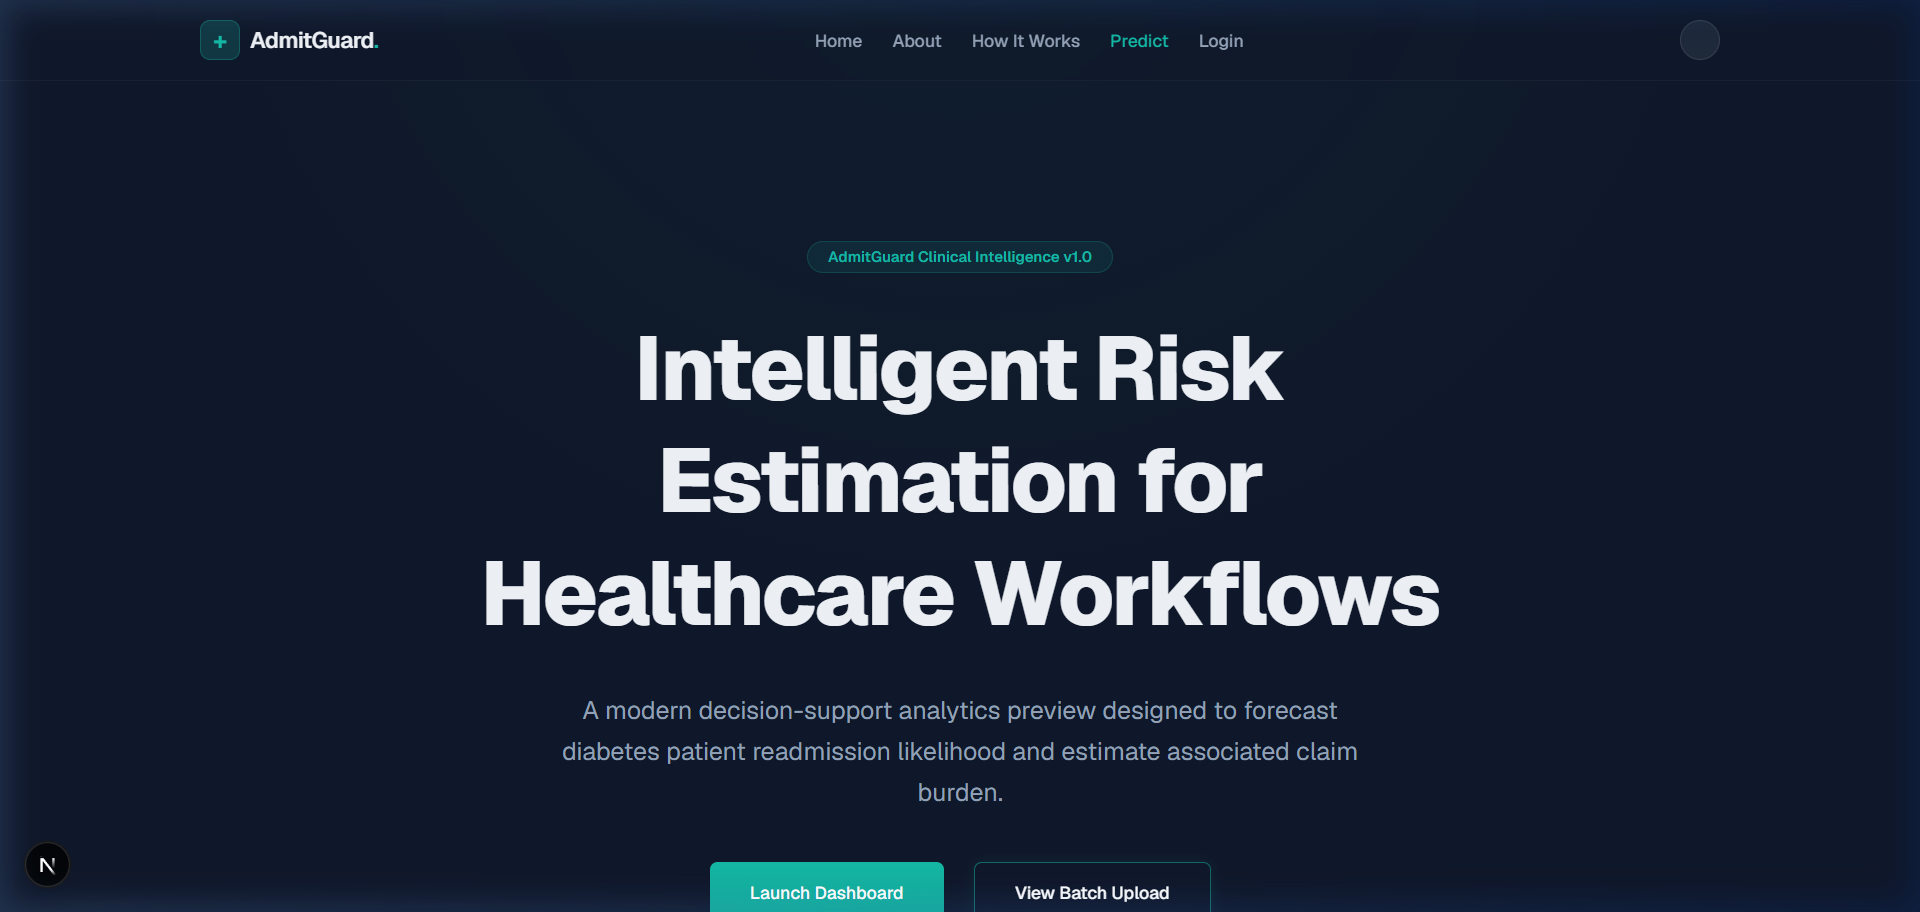
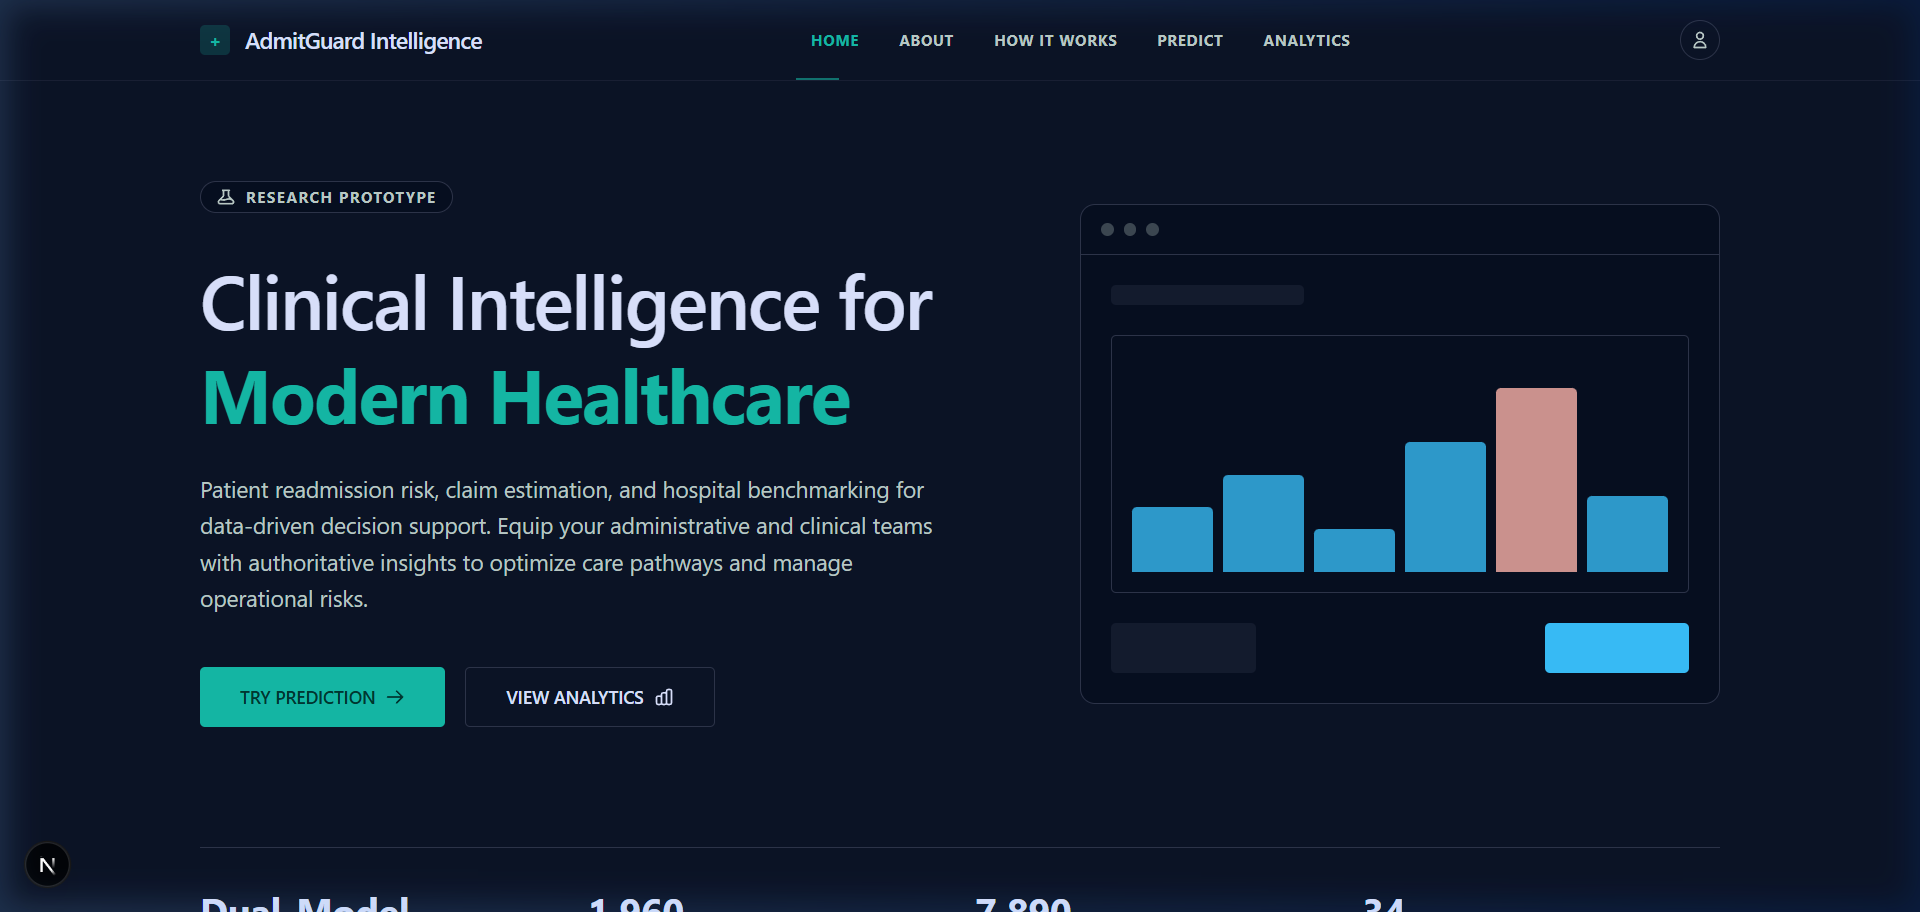
docs: refresh README and finalize AdmitGuard UI polish

diff --git a/frontend/src/components/layout/AppShell.tsx b/frontend/src/components/layout/AppShell.tsx
@@ -82,10 +82,6 @@ export function AppShell({ children }: { children: React.ReactNode }) {
           </nav>
 
           <div className="flex items-center gap-4">
-            <div className="hidden md:flex h-8 w-8 rounded-full border border-border items-center justify-center text-muted-foreground">
-              <svg className="w-4 h-4" fill="none" stroke="currentColor" viewBox="0 0 24 24"><path strokeLinecap="round" strokeLinejoin="round" strokeWidth={2} d="M16 7a4 4 0 11-8 0 4 4 0 018 0zM12 14a7 7 0 00-7 7h14a7 7 0 00-7-7z" /></svg>
-            </div>
-            
             {/* Mobile Menu Toggle */}
             <button
               onClick={() => setIsMobileMenuOpen(!isMobileMenuOpen)}

diff --git a/README.md b/README.md
@@ -1,133 +1,142 @@
 # AdmitGuard Intelligence
 
-> A clinical decision-support and analytics prototype providing patient readmission risk estimation and estimated insurance claim analytics.
+> A premium clinical decision-support and analytics platform providing patient readmission risk estimation, claim billing bounds estimation, and interactive hospital benchmarking.
 
-### 🌐 [Live Demo (admitguard.site)](https://admitguard.site)
-*Note: The backend is hosted on a free Render instance and may take 30-60 seconds to wake up on the first request.*
-
-## 📌 Problem Statement
-Hospital readmissions are a critical quality metric and financial liability for healthcare organizations. Accurately identifying high-risk patients prior to discharge allows clinical teams to intervene with targeted care plans, reducing the likelihood of avoidable readmissions. Simultaneously, understanding estimated insurance claim amounts helps financial planning and resource allocation. AdmitGuard serves as a foundational prototype to bridge clinical operational data with machine learning, enabling proactive risk management.
-
-## ✨ Key Features
-- **Readmission Risk Estimation**: Predicts 30-day readmission probability using 32 pre-outcome clinical features (leak-safe).
-- **Claim Analytics**: Estimates financial claim amounts based on 12 patient demographic and history features.
-- **Hospital Benchmarking**: Aggregate performance analytics for ~2,000 hospitals using the CMS HRRP dataset.
-- **Unified Dashboard**: A polished, responsive web interface built with modern glassmorphism UI for clear presentation.
-- **Robust Architecture**: Modular FastAPI backend supporting dual-model concurrent inference, strictly decoupled from the Next.js frontend.
-- **Safe ML Pipeline**: Fully reproducible `scikit-learn` pipeline with rigorous anti-leakage guards (ensuring post-outcome variables do not corrupt training).
-
-## 🛠 Tech Stack
-- **Frontend**: Next.js 16 (App Router), React, Tailwind CSS, TypeScript
-- **Backend**: FastAPI, Python 3.12, Pydantic, SQLAlchemy 2.0
-- **Machine Learning**: Scikit-Learn, Pandas, NumPy, Joblib
-
-## 🏗 Architecture Overview
-AdmitGuard operates on a segregated Client-Server architecture:
-1. **Next.js Client**: Provides the recruiter-ready UI. Requests are routed via `src/lib/api.ts` concurrently using `Promise.allSettled`.
-2. **FastAPI Microservice**: Handles inference via two distinct routes: `/api/v1/readmission/predict` and `/api/v1/claim/predict`.
-3. **ML Pipeline**: A local `ml/` environment that processes the raw dataset, maps variables, scales features, and exports `.joblib` binary artifacts consumed by the FastAPI service.
-
-*(See [Architecture Docs](docs/architecture/README.md) for more details)*
-
-## 🧠 ML Models Used
-The system trains on two separate, task-specific datasets to avoid feature leakage and ensure data integrity. The previous fused dataset (`final_adjusted_healthcare_dataset.xlsx`) is invalid and must **not** be used or recreated.
-
-### Readmission Risk Model (Classification)
-- **Dataset**: `diabetic_data.csv` (101,766 rows)
-- **Algorithm**: Logistic Regression (with class weight balancing)
-- **Metrics** (Realistic due to leakage removal): 
-  - Accuracy: 0.648
-  - Recall: 0.538
-  - Macro-F1: 0.514
-  - ROC-AUC: 0.637
-
-### Claim Prediction Model (Regression)
-- **Dataset**: `healthinsurance_claims.csv` (13,904 deduplicated rows)
-- **Algorithm**: Random Forest Regressor
-- **Metrics** (Strong but dataset-specific): 
-  - MAE: 558.89
-  - RMSE: 2047.77
-  - R2: 0.972
-  - MAPE: 6.31%
-
-### Hospital Analytics (Benchmarking)
-- **Dataset**: `hrrp_readmissions.csv` (7,890 records)
-- **Scope**: 1,960 unique hospitals across 34 US states.
-- **Primary Metric**: Excess Readmission Ratio (ERR).
-- **Nature**: Static historical aggregate data (Jul 2019 – Jun 2022). This is **not** an ML model output but a display of CMS-calculated statistics.
-
-## ⚠ Important Notes
-- **Dataset Note**: The project uses separate, task-specific datasets. The raw datasets are locally stored in `data/raw/` and explicitly ignored by Git.
-- **Artifact Note**: Large binary `.joblib` model artifacts are also ignored by `.gitignore`. They must be generated locally using the training scripts before running the backend locally.
-- **Disclaimer**: This platform is a *prototype/decision-support tool*. It is **not** HIPAA compliant, does **not** have clinical approval, and does **not** provide medical or financial advice.
-
-## 🌐 Live Deployment
-AdmitGuard is live and accessible for demonstration:
-- **Frontend**: [admitguard.site](https://admitguard.site) (Deployed on Vercel via Namecheap)
-- **Backend API**: [admitguard-api.onrender.com](https://admitguard-api.onrender.com) (Deployed on Render)
-- **API Documentation**: [Interactive Swagger UI](https://admitguard-api.onrender.com/docs)
-- **Analytics Data**: [Public JSON Summary](https://admitguard-api.onrender.com/api/v1/analytics/summary)
-
-*Note: As this uses Render's free tier, the backend may "spin down" after inactivity. If the app appears slow initially, please allow up to 60 seconds for the service to wake up.*
-
-## 🚀 Local Setup Instructions
-
-### 1. Training the Models (Required First)
-Because artifacts are not committed, you must build the models locally.
-1. Place the datasets (`diabetic_data.csv` and `healthinsurance_claims.csv`) into `data/raw/readmission/` and `data/raw/claims/` respectively.
-2. Open a terminal at the project root and activate the environment:
-   ```bash
-   .venv\Scripts\activate
-   ```
-3. Run the training scripts:
-   ```bash
-   python ml/src/train_readmission.py
-   python ml/src/train_claim.py
-   ```
-   *(This generates the `.joblib` files inside `ml/artifacts/` or `ml/models/`)*
-
-### 2. Running the Backend
-1. Ensure the virtual environment is activated.
-2. From the project root, start FastAPI:
-   ```bash
-   cd backend
-   uvicorn app.main:app --reload --port 8000
-   ```
-
-### 3. Running the Frontend
-1. Open a new terminal at the project root.
-2. Install dependencies (if not done) and start Next.js:
-   ```bash
-   cd frontend
-   pnpm install
-   pnpm dev
-   ```
-3. Navigate to `http://localhost:3000` to view the dashboard.
-
-## 📡 API Endpoint Summary
-- `GET /api/v1/health/` - Backend health check
-- `GET /api/v1/analytics/summary` - Returns aggregate HRRP hospital benchmarking data.
-- `POST /api/v1/readmission/predict` - Accepts ReadmissionRequest (32 features) and returns risk probability/label.
-- `POST /api/v1/claim/predict` - Accepts ClaimRequest (12 features) and returns estimated USD claim amount.
-
-*(See [API Docs](docs/api/README.md) for payload definitions)*
-
-## 🔮 Limitations & Future Improvements
-- **Limitations**: The models currently assume structured tabular data and are trained on static datasets. The models are dataset-specific.
-- **Improvements**: Integration with live FHIR/HL7 streams, Dockerization for cloud deployment, and implementing user authentication/RBAC for secure provider access.
-
-## 📋 Next Steps
-1. Final project hand-off and portfolio polish.
-2. Optional SHAP/Explainability integration for prediction drivers.
-3. Dashboard filtering by condition or state.
+### 🌐 [Live Demo (admitguard.site)](https://admitguard.site) | 📡 [Interactive Swagger API Docs](https://admitguard-api.onrender.com/docs)
+*Note: The backend is hosted on Render's free tier and may take 30–60 seconds to spin up on the first request.*
 
 ---
 
-## 📸 Screenshots
+## 📌 Problem Statement
+Hospital readmissions are a critical quality metric and financial liability under the CMS Hospital Readmissions Reduction Program (HRRP). Proactively identifying high-risk patients before discharge allows clinical teams to deploy transition-of-care interventions. Simultaneously, understanding billing limits helps operational teams anticipate claim limits and manage medical loss ratios. 
 
+**AdmitGuard** bridges these clinical and financial spaces. It processes individual patient profiles against ML models and offers an interactive aggregate explorer to benchmark performance across 2,000+ US hospitals.
+
+---
+
+## ✨ Key Features
+
+- **🧠 Double ML Prediction Engine**:
+  - **Patient Readmission Risk (Classification)**: Predicts 30-day readmission risk using 32 pre-outcome clinical features with strict data leak-safety.
+  - **Patient Claim Estimation (Regression)**: Estimates total claim cost bounds based on 12 demographic and clinical features.
+- **📊 Dataset Baseline Visualizations**:
+  - Visualizes patient indicators relative to historical medians and Interquartile Ranges (IQR) using shaded horizontal bullet charts.
+  - Strictly framed as non-causal descriptive references with professional clinical disclaimers.
+- **📈 Interactive Analytics Explorer**:
+  - Hospital-level benchmarking explorer utilizing high-performance **Recharts** visualizations.
+  - Real-time dynamic filtering by **US State**, **Medical Condition**, and **Top-N Outliers**.
+- **📄 Vector-Native PDF Reports**:
+  - Client-side downloadable PDFs generated via `@react-pdf/renderer` for both predictions and analytics.
+  - Custom vector graphics faithfully reproduce web-based distributions and bullet charts inside the PDF with no context loss offline.
+- **💎 Dark Clinical Design**:
+  - Fully responsive, Stitch-inspired dark glassmorphism layout optimized for modern medical workstations.
+
+---
+
+## 🛠 Tech Stack
+- **Frontend**: Next.js 16 (App Router), React, TypeScript, Tailwind CSS, Recharts, React-PDF
+- **Backend**: FastAPI, Python 3.12, Pydantic, SQLAlchemy 2.0, Uvicorn
+- **Machine Learning**: Scikit-Learn, Pandas, NumPy, Joblib
+
+---
+
+## 🏗 Architecture Overview
+AdmitGuard operates on a segregated, decoupled client-server architecture:
+1. **Next.js Client**: Premium, recruiter-ready clinical dashboard interface. Calls APIs concurrently utilizing `Promise.allSettled` to optimize performance.
+2. **FastAPI Microservice**: Dual-model concurrent inference engine mapping endpoints:
+   - `/api/v1/readmission/predict`
+   - `/api/v1/claim/predict`
+   - `/api/v1/analytics/explore` *(dynamic state/condition filter queries)*
+3. **ML Pipeline**: Modular training environments in `ml/` producing reproducible `.joblib` model binaries.
+
+*(See [Architecture Docs](docs/architecture/README.md) for deeper implementation details)*
+
+---
+
+## 🧠 Model Specifications & Baselines
+
+### Readmission Risk Model (Classification)
+- **Dataset**: `diabetic_data.csv` (101,766 records)
+- **Algorithm**: Logistic Regression (balanced class weights)
+- **Primary Metrics**: Accuracy: 0.648 | Recall: 0.538 | ROC-AUC: 0.637
+
+### Claim Prediction Model (Regression)
+- **Dataset**: `healthinsurance_claims.csv` (13,904 records)
+- **Algorithm**: Random Forest Regressor
+- **Primary Metrics**: MAE: 558.89 | R²: 0.972 | MAPE: 6.31%
+
+### Hospital Analytics Benchmarking (Aggregate CMS Data)
+- **Dataset**: `hrrp_readmissions.csv` (7,890 records)
+- **Metrics**: Excess Readmission Ratio (ERR) distributions across 1,960 hospitals.
+- **Nature**: Historical aggregate reference dataset. Not predictive; used strictly for descriptive benchmarking.
+
+---
+
+## ⚠ Important Disclaimers & Safety
+- **Descriptive Benchmarking**: Comparison indicators display historical statistical distributions. They are **not** explaining causality or model feature importance.
+- **Compliance & Prototype Framing**: AdmitGuard is a research prototype designed to showcase engineering proficiency. It is **not** HIPAA-compliant, does not have clinical clearance, and must not be used for direct medical diagnoses or billing decisions.
+
+---
+
+## 🚀 Local Setup Instructions
+
+### 1. Precompute Model Binaries (Required First)
+Because compiled binary models are excluded from Git:
+1. Place raw datasets (`diabetic_data.csv` and `healthinsurance_claims.csv`) in `data/raw/readmission/` and `data/raw/claims/` respectively.
+2. Activate your virtual environment and run the training scripts:
+   ```bash
+   .venv\Scripts\activate
+   python ml/src/train_readmission.py
+   python ml/src/train_claim.py
+   ```
+3. Generate the precomputed baseline statistical bounds:
+   ```bash
+   python ml/scripts/generate_baselines.py
+   ```
+
+### 2. Run the Backend API
+```bash
+cd backend
+uvicorn app.main:app --reload --port 8000
+```
+
+### 3. Run the Frontend Dashboard
+```bash
+cd frontend
+pnpm install
+pnpm dev
+```
+Navigate to `http://localhost:3000` to interact with the system locally.
+
+---
+
+## 📸 Screenshots & Visual Interface
+
+### 1. Sleek Hospital Landing Page
 ![Landing Page](docs/screenshots/landing-page.png)
-![About Page](docs/screenshots/about-page.png)
-![How It Works](docs/screenshots/how-it-works-page.png)
-![Prediction Dashboard](docs/screenshots/predict-dashboard.png)
+
+### 2. Interactive Benchmarking Analytics (Recharts-powered)
 ![Analytics Dashboard](docs/screenshots/analytics-dashboard.png)
+
+### 3. Patient Predict Form & Baseline bullet charts
 ![Prediction Results](docs/screenshots/prediction-results.png)
+
+### 4. Vector PDF Clinical Summaries (React-PDF)
+| Readmission Report | Financial Claim Report |
+|---|---|
+| ![Readmission PDF](docs/screenshots/readmission-report-pdf.png) | ![Claim PDF](docs/screenshots/claim-report-pdf.png) |
+
+---
+
+## 📡 API Endpoint Reference
+- `GET /api/v1/health/` — API active status check.
+- `POST /api/v1/readmission/predict` — Accepts patient data (32 inputs) & returns risk probability + descriptive benchmarks.
+- `POST /api/v1/claim/predict` — Accepts claim parameters & returns expected cost bounds + baseline comparative statistics.
+- `POST /api/v1/analytics/explore` — Accepts query filters (State, Condition, Top-N Outliers) & returns real-time HRRP benchmarking tables and visual statistics.
+
+---
+
+## 📋 Project Verification
+- **Build Verification**: `pnpm build` completes with zero Turbopack compilation errors.
+- **API Status**: Healthy FastAPI server verified locally and deployed on Render.
+- **Clinical Aesthetics**: Unified clinical dark theme with fluid routing and no placeholders.
